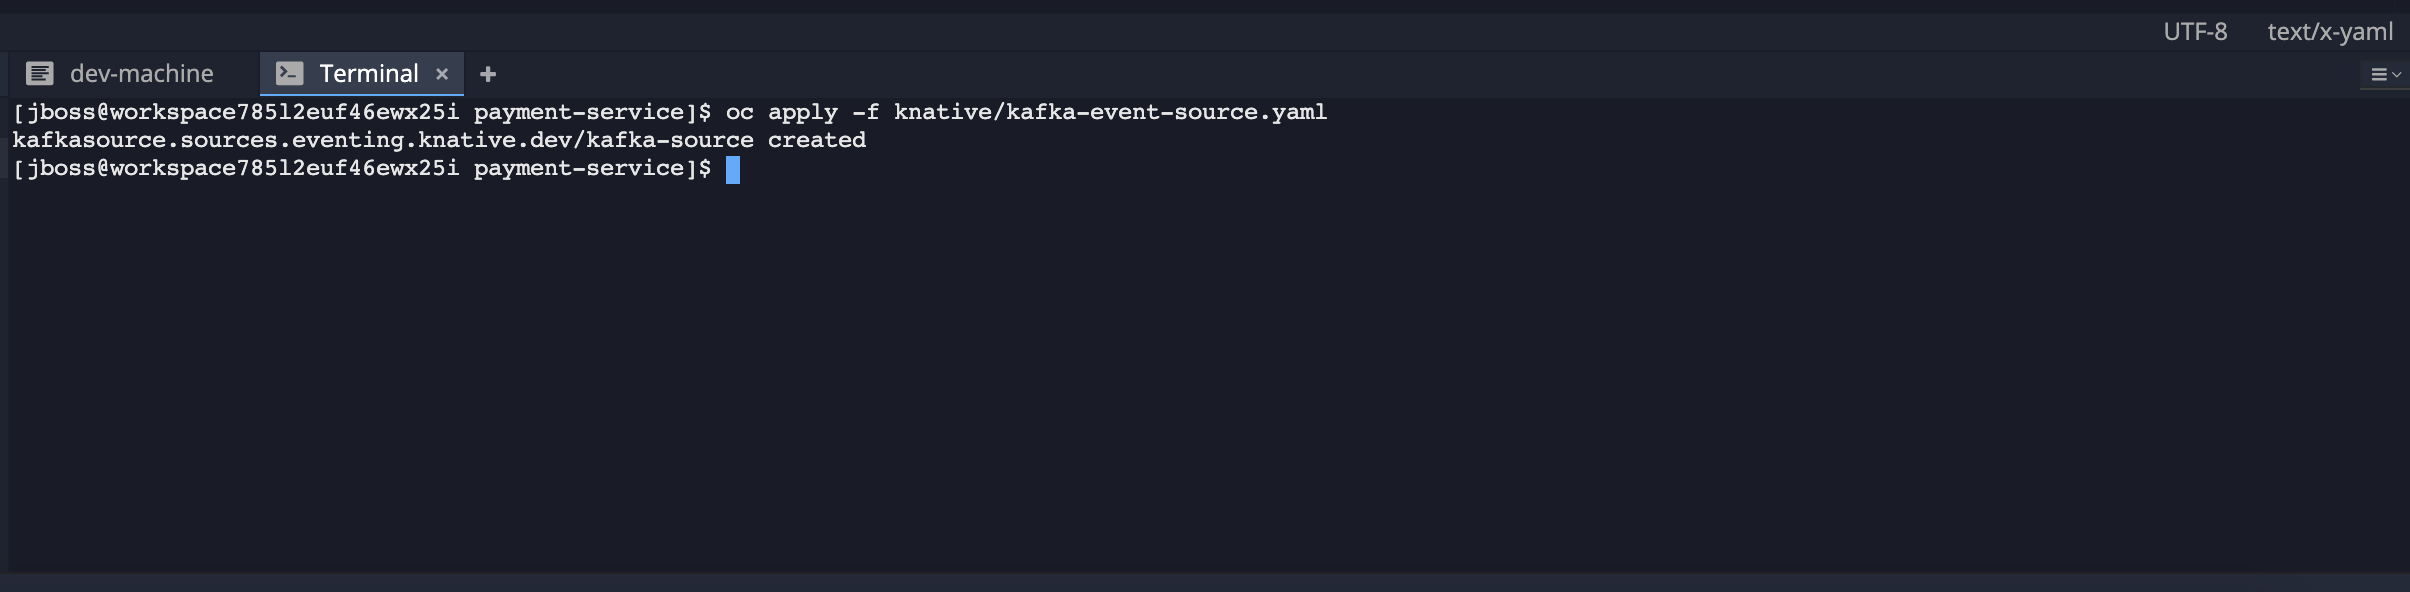
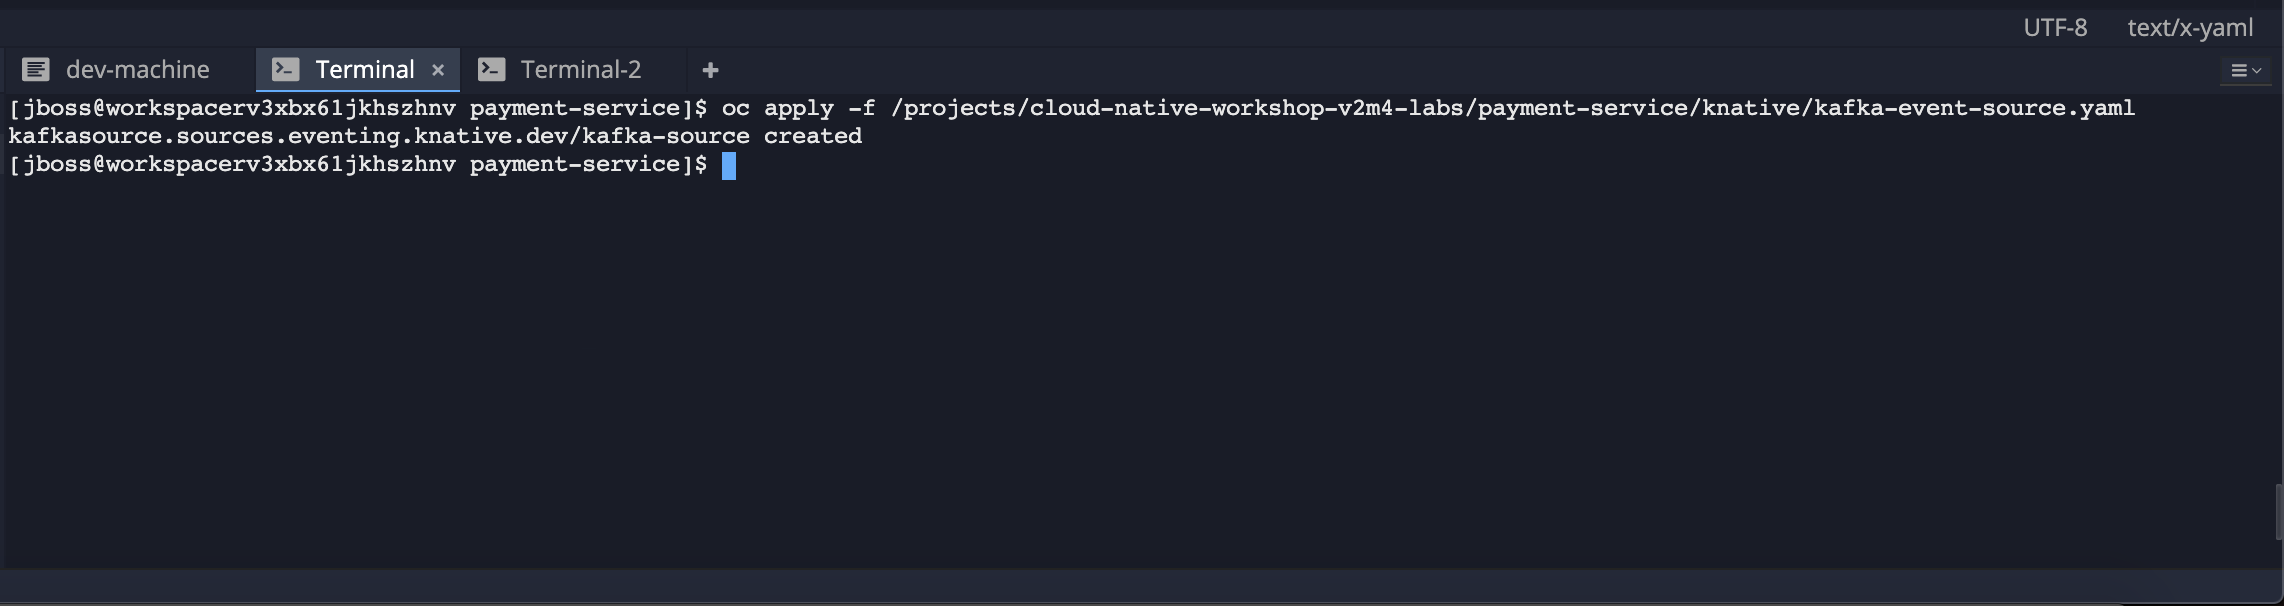
update Quarkus config

Changed region(s): [[0.0, 0.0608, 0.9326, 0.3041], [0.0, 0.0, 1.0, 1.0]]

diff --git a/evolve-serverless-services.md b/evolve-serverless-services.md
@@ -91,7 +91,7 @@ Let's find out why Quarkus calls itself _SuperSonic Subatomic Subatomic Java_. L
 
 ~~~sh
 mkdir /tmp/hello && cd /tmp/hello && \
- mvn io.quarkus:quarkus-maven-plugin:0.21.2:create \
+mvn io.quarkus:quarkus-maven-plugin:0.21.2:create \
     -DprojectGroupId=org.acme \
     -DprojectArtifactId=getting-started \
     -DclassName="org.acme.quickstart.GreetingResource" \
@@ -332,10 +332,9 @@ payment   http://payment.userXX-cloudnativeapps.[subdomain]   True
 
 If you send traffic to this endpoint it will trigger the autoscaler to scale the app up. Trigger the app:
 
-~~~sh
-export SVC_URL=$(oc get rt payment -o template={% raw %}'{{ .status.url }}'{% endraw %})
-curl -i -H 'Content-Type: application/json' -d '{"foo": "bar"}' $SVC_URL
-~~~
+`export SVC_URL=$(oc get rt payment -o template={% raw %}'{{ .status.url }}'{% endraw %})`
+
+`curl -i -H 'Content-Type: application/json' -d '{"foo": "bar"}' $SVC_URL`
 
 This will send some dummy data to the `payment` service,  but more importantly it triggered knative
 to spin up the pod again automatically, and will shut it down 30 seconds later.
@@ -368,7 +367,7 @@ spec:
 
 The object can then be deployed using the following command via CodeReady Workspaces Terminal:
 
-`oc apply -f /projects/cloud-native-workshop-v2m4-labs/payment/knative/kafka-event-source.yaml`
+`oc apply -f /projects/cloud-native-workshop-v2m4-labs/payment-service/knative/kafka-event-source.yaml`
 
 ![serverless]({% image_path kafka-event-source.png %})
 
@@ -395,7 +394,7 @@ Before getting started, we need to make sure if _payment service_ is scaled down
 
 Let's go shopping! Open the Web UI in your browser. To get the URL to the Web UI, run this command in CodeReady _Terminal_:
 
-`echo $(oc get route coolstore-ui -o=go-template --template='{{ .spec.host }}')`
+`oc get route | grep coolstore-ui | awk '{print $2}'`
 
 Add some cool items to your shopping cart in the following shopping scenarios:
 
@@ -553,8 +552,8 @@ Let's confirm if the **tasks** are installed properly using [Tekton CLI](https:/
 `tkn task list`
 
 ~~~shell
-openshift-client   50 seconds ago
-s2i-java-8         20 seconds ago
+openshift-client   7 seconds ago
+s2i-java-8         3 seconds ago
 ~~~
 
 ##### Create Pipeline

diff --git a/event-driven-services.md b/event-driven-services.md
@@ -265,8 +265,6 @@ Package the payment application by clicking on **Package for OpenShift** in the 
 
 Or run the following command in a CodeReady Workspaces _Terminal_:
 
-`cd /projects/cloud-native-workshop-v2m4-labs/payment-service/`
-
 `mvn clean package -DskipTests`
 
 This will build an executable JAR file in the `target/` directory.
@@ -444,9 +442,7 @@ Package the cart application via clicking on `Package for OpenShift` in `Command
 
 ![cart]({% image_path quarkus-dev-run-packageforOcp.png %})
 
-Or run the following maven plugin in CodeReady Workspaces_Terminal_:
-
-`cd /projects/cloud-native-workshop-v2m4-labs/cart-service/`
+Or run the following maven plugin in CodeReady Workspaces _Terminal_:
 
 `mvn clean package -DskipTests`
 
@@ -573,9 +569,7 @@ Package the order application via clicking on `Package for OpenShift` in `Comman
 
 ![codeready-workspace-maven]({% image_path quarkus-dev-run-packageforOcp.png %})
 
-Or run the following maven plugin in CodeReady Workspaces_Terminal_:
-
-`cd /projects/cloud-native-workshop-v2m4-labs/order-service/`
+Or run the following maven plugin in CodeReady Workspaces _Terminal_:
 
 `mvn clean package -DskipTests`
 
@@ -595,7 +589,7 @@ Let's confirm if the all services works correctly using `Kafka` messaging via co
 
 Let's go shopping! Open the Web UI in your browser. To get the URL to the Web UI, run this command in CodeReady _Terminal_:
 
-`echo $(oc get route coolstore-ui -o=go-template --template={% raw %}'{{ .spec.host }}'{% endraw %})`
+`oc get route | grep coolstore-ui | awk '{print $2}'`
 
 Add some cool items to your shopping cart in the following shopping scenarios:
 

diff --git a/high-performing-cache-services.md b/high-performing-cache-services.md
@@ -116,7 +116,7 @@ We will use `Quarkus extension` to add `PostgreSQL JDBC Driver`. Go back to Code
 
 Package the applicaiton via running the following maven plugin in CodeReady WorkspacesTerminal:
 
-`mvn clean package -DskipTests -Dquarkus.profile=prod`
+`mvn clean package -DskipTests`
 
 > `NOTE`: You should `SKIP` the Unit test because you don't have PostgreSQL database in local environment.
 
@@ -203,7 +203,7 @@ This build uses the new [Red Hat OpenJDK Container Image](https://access.redhat.
 
  * Deploy it as an OpenShift application after the build is done and override the Postgres URL to specify our production Postgres credentials:
 
-`oc new-app inventory -e QUARKUS_DATASOURCE_URL=jdbc:postgresql://inventory-database:5432/inventory`
+`oc new-app inventory -e QUARKUS_PROFILE=prod`
 
  * Create the route
 
@@ -724,7 +724,7 @@ Add the following Java codes at each market.
  * `// TODO: Add a while loop to make an order lists using MongoCursor here` marker in `list()` method:
 
 ~~~java
-            MongoCursor<Document> cursor = getCollection().find().iterator();
+        MongoCursor<Document> cursor = getCollection().find().iterator();
 
         try {
             while (cursor.hasNext()) {
@@ -915,8 +915,6 @@ Package the cart application via clicking on `Package for OpenShift` in `Command
 ![codeready-workspace-maven]({% image_path quarkus-dev-run-packageforOcp.png %})
 
 Or run the following maven plugin in CodeReady WorkspacesTerminal:
-
-`cd /projects/cloud-native-workshop-v2m4-labs/order-service/`
 
 `mvn clean package -DskipTests`
 

diff --git a/cloud-native-architectures.md b/cloud-native-architectures.md
@@ -139,19 +139,6 @@ Click on the **Import Projects...** in **Workspace** menu and enter the followin
 
 The projects are imported now into your workspace and is visible in the project explorer.
 
-CodeReady Workspaces is a full featured IDE and provides language specific capabilities for various project types. In order to
-enable these capabilities, you need to convert the imported project skeletons to a Maven projects as below: 
-
-In the project explorer, right-click on each project and then click on `Convert to Project` continuously.
-
-![codeready-workspace-convert]({% image_path codeready-workspace-convert.png %}){:width="500px"}
-
-Choose `Maven` from the project configurations and then click on `Save`.
-
-![codeready-workspace-maven]({% image_path codeready-workspace-maven.png %}){:width="700px"}
-
-Repeat the above for inventory and catalog projects.
-
 > `NOTE`: the Terminal window in CodeReady Workspaces. For the rest of these labs, anytime you need to run a command in a terminal, you can use the CodeReady Workspaces `Terminal` window.
 
 ![codeready-workspace-terminal]({% image_path codeready-workspace-terminal.png %})
